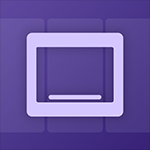
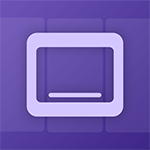
N 2.0

diff --git a/pixel sorter.html b/pixel sorter.html
@@ -54,7 +54,7 @@
                 <svg xmlns="http://www.w3.org/2000/svg" viewBox="0 0 850.89 850.9">
                     <path fill="var(--bar)" d="M757.63.5H92.77C41.58.5.08,41.99.08,93.18v665.02c0,51.19,41.5,92.69,92.69,92.69h664.86c51.19,0,92.68-41.5,92.68-92.69V93.18c0-51.19-41.49-92.68-92.68-92.68ZM383.3,727.2c0,22.08-17.9,39.97-39.98,39.97H123.69c-22.08,0-39.98-17.89-39.98-39.97v-65.37h89.03c17.62,0,31.9-14.29,31.9-31.9v-19.84c0-17.61-14.28-31.89-31.9-31.89h-89.03v-305h89.03c17.62,0,31.9-14.28,31.9-31.9v-19.83c0-17.62-14.28-31.9-31.9-31.9h-89.03v-65.38c0-22.08,17.9-39.98,39.98-39.98h219.63c22.08,0,39.98,17.9,39.98,39.97v603.02ZM766.68,189.56h-89.19c-17.62,0-31.9,14.29-31.9,31.9v19.83c0,17.62,14.28,31.9,31.9,31.9h89.19v305h-89.19c-17.62,0-31.9,14.28-31.9,31.9v19.83c0,17.62,14.28,31.9,31.9,31.9h89.19v65.38c0,22.08-17.9,39.97-39.98,39.97h-219.63c-22.08.01-39.98-17.88-39.98-39.96V124.19c0-22.08,17.9-39.98,39.98-39.98h219.63c22.08,0,39.98,17.9,39.98,39.98v65.37Z"/>
                   </svg>
-                <img src="icon/thumbnails/missing.png" alt="pixel sorter" id="headerimage" draggable="false">
+                <img src="icon/thumbnails/pixelsorter.png" alt="pixel sorter" id="headerimage" draggable="false">
             </div>
             <h2>Pixel Sorter</h2>
         </header>
@@ -152,6 +152,38 @@
         </main>
 
         <script>
+            /*
+                make faster by mergin the bitmask creation and image system
+
+                also, make it so that repeated lines dont exist [a boarder for hte bit mask where the width starts and ends]
+
+                compress images if they are over 1000 pixels in any dimention
+
+
+                (e.naturalHeight || e.offsetHeight || e.height)
+
+                img.onload = function () {
+
+    // set size proportional to image
+    canvas.height = canvas.width * (img.height / img.width);
+
+    // step 1 - resize to 50%
+    var oc = document.createElement('canvas'),
+        octx = oc.getContext('2d');
+
+    oc.width = img.width * 0.5;
+    oc.height = img.height * 0.5;
+    octx.drawImage(img, 0, 0, oc.width, oc.height);
+
+    // step 2
+    octx.drawImage(oc, 0, 0, oc.width * 0.5, oc.height * 0.5);
+
+    // step 3, resize to final size
+    ctx.drawImage(oc, 0, 0, oc.width * 0.5, oc.height * 0.5,
+    0, 0, canvas.width, canvas.height);
+}
+img.src = "//i.imgur.com/SHo6Fub.jpg";
+            */
             let processor;
             window.onload = function() {
                 processor = new PixelSorter(document.getElementById('out'),document.getElementById('in'))
@@ -219,26 +251,18 @@
                 createImageBuffer(file) {
                     this.outputCanvas.classList.remove('active')
                     let e = new Image()
+
                     e.onload = () => {
-                        //document.getElementById('headerimage').src = e.src
-                        //console.log(e.height, this.outputCanvas)
+    
                         let o, c;
-                        this.outputCanvas.height = (e.naturalHeight || e.offsetHeight || e.height)
-                        this.outputCanvas.width = (e.naturalWidth || e.offsetWidth || e.width)
-                        c = (this.imageCanvas.height) = e.naturalHeight || e.offsetHeight || e.height, 
-                        o = (this.imageCanvas.width) = e.naturalWidth || e.offsetWidth || e.width, 
+                        c = this.outputCanvas.height = this.imageCanvas.height = e.naturalHeight || e.offsetHeight || e.height, 
+                        o = this.imageCanvas.width = this.outputCanvas.width = e.naturalWidth || e.offsetWidth || e.width, 
                         this.imageCTX.drawImage(e, 0, 0)
                         this.imageCanvas.classList.add('active')
                         //console.log('working')
                         this.OGimageData = this.imageCTX.getImageData(0, 0, o, c)
                     }
-                    e.onerror = function() {
-                        
-                    }
-                    //console.log(this.readInput(file))
-                    this.readInput(file, e)
-
-                    
+                    this.readInput(file, e)                    
                 }
 
                 get OGimage() {
@@ -378,51 +402,60 @@
                     let deltaL = labOne[0] - labTwo[0],
                     deltaA = labOne[1] - labTwo[1],
                     deltaB = labOne[2] - labTwo[2],
+
                     c1 = Math.sqrt(labOne[1] * labOne[1] + labOne[2] * labOne[2]),
                     c2 = Math.sqrt(labTwo[1] * labTwo[1] + labTwo[2] * labTwo[2]),
+
                     deltaC = c1 - c2,
                     deltaH = deltaA * deltaA + deltaB * deltaB - deltaC * deltaC;
                     deltaH = deltaH < 0 ? 0 : Math.sqrt(deltaH);
+
                     let sc = 1.0 + 0.045 * c1,
                     sh = 1.0 + 0.015 * c1,
+
                     deltaLKlsl = deltaL / (1.0),
                     deltaCkcsc = deltaC / (sc),
                     deltaHkhsh = deltaH / (sh),
+
                     i = deltaLKlsl * deltaLKlsl + deltaCkcsc * deltaCkcsc + deltaHkhsh * deltaHkhsh;
+
                     return i < 0 ? 0 : Math.sqrt(i);
                 }
 
 
                 createBitMask(map) {
-                    console.log('starting bitmask creation')
                     this.colourMask = map
                     let tempMask = []
 
                     for(let i = 0; i < this.colourMask.length; i++) {
                         let bit = 0
+
                         if(this.colourSpace != 'LAB') {
+
                             if(this.colourMask[i] <= this.lowBound || this.colourMask[i] >= this.upBound) {
                                 bit = ((this.outputChannel[3]) ? 1 : null)
                             }else {
                                 bit = ((this.outputChannel[3]) ? null : 1)
                             }
+
                         }else {
-                            //console.log(this.colourMask[i] <= this.matchColourThresh, this.colourMask[i], this.matchColourThresh)
+
                             if(this.colourMask[i] >= this.matchColourThresh) {
                                 bit = ((this.outputChannel[3]) ? 1 : null)
                             }else {
                                 bit = ((this.outputChannel[3]) ? null : 1)
                             }
+
                         }
-            
+
                         if(tempMask.length < 1 || tempMask[tempMask.length - 1][tempMask[tempMask.length - 1].length - 1] != bit) { 
                             tempMask.push([bit]) 
                         }else { 
                             tempMask[tempMask.length - 1].push(bit) 
                         }
-                        //console.log(tempMask)
+
                     }
-                    //console.log(tempMask)
+
                     return Promise.resolve(tempMask)
                 }
 
@@ -459,40 +492,6 @@
                         maskLen += this.bitMask[main].length
                     }
 
-                    
-
-                   /*
-                    let counter = 0
-                    for(let y = 0; y < this.bitMask.length; y++) {
-                        counter += (this.bitMask[y].length - 1)
-                        for(let x = 0; x < this.bitMask[y].length; x++) {
-                            if(this.bitMask[y][x]) {
-                                this.colourMask[y][x] = (this.image[counter + x])
-                            }// for each row, push an array for every white until a black, then make a new array and push that so it looks like [[1,1,1,1,1,1], [0,0,0,0,0,0,0,0]] //then you sort every value that is a 1 indevidually before placing back using the map
-                        }
-                    }
-
-                    //[[0,0,0,x],[0,0,0,x]]
-
-                    let tempImage = this.colourMask.map((element) => {
-                        //console.log(element)
-                        if(element[0] == null) return element
-                        return element.sort( (a, b) => (this.outputChannel[4]) ? a[3] - b[3] : b[3] - a[3])
-                    })
-                    //console.log(tempImage)
-                    console.log('applying bitmask')
-
-                    counter = 0
-                    for(let y = 0; y < this.bitMask.length; y++) {
-                        counter += (this.bitMask[y].length - 1)
-                        for(let x = 0; x < this.bitMask[y].length; x++) {
-                            if(this.bitMask[y][x]) {
-                                this.image[counter + x] = tempImage[y][x]
-                            }// for each row, push an array for every white until a black, then make a new array and push that so it looks like [[1,1,1,1,1,1], [0,0,0,0,0,0,0,0]] //then you sort every value that is a 1 indevidually before placing back using the map
-                        }
-                    }
-
-*/
 
 
 
@@ -501,8 +500,6 @@
                 }
 
                 drawOutput(output) {
-
-                    console.log('drawing image')
 
                     switch(this.outputChannel[5]) {
                         case false:
@@ -518,22 +515,19 @@
                             }
                             break;
                         case true:
-            
                             this.outputImage = output
-                            //console.log(output)
-
                             break;
                     }
                     for(let y = 0; y < this.outputCanvas.height; y++) {
                         for(let x = 0; x < this.outputCanvas.width; x++) {  
                     
-                            this.outputCTX.fillStyle = `rgb(${(this.outputChannel[0]) ? 0 : this.outputImage[this.outputCanvas.width * y + x][0]} ${(this.outputChannel[1]) ? 0 : this.outputImage[this.outputCanvas.width * y + x][1]} ${(this.outputChannel[2]) ? 0 : this.outputImage[this.outputCanvas.width * y + x][2]})`;
-                            //this.outputCTX.fillStyle = `rgb(${this.outputImage[this.outputCanvas.width * y + x][0]} ${this.outputImage[this.outputCanvas.width * y + x][1]} ${this.outputImage[this.outputCanvas.width * y + x][2]})`;
-                        
+                            this.outputCTX.fillStyle = `rgb(${
+                                (this.outputChannel[0]) ? 0 : this.outputImage[this.outputCanvas.width * y + x][0]} ${
+                                    (this.outputChannel[1]) ? 0 : this.outputImage[this.outputCanvas.width * y + x][1]} ${
+                                        (this.outputChannel[2]) ? 0 : this.outputImage[this.outputCanvas.width * y + x][2]})`;
                             this.outputCTX.fillRect(x, y, 1, 1);
                         }
                     }
-                    console.log('finished')
                     setTimeout(() => {
                         this.outputCanvas.classList.add('active')
                     }, 100);

diff --git a/the cellar.html b/the cellar.html
@@ -104,7 +104,7 @@
                         <svg xmlns="http://www.w3.org/2000/svg" viewBox="0 0 850.89 850.9">
                             <path d="M757.63.5H92.77C41.58.5.08,41.99.08,93.18v665.02c0,51.19,41.5,92.69,92.69,92.69h664.86c51.19,0,92.68-41.5,92.68-92.69V93.18c0-51.19-41.49-92.68-92.68-92.68ZM383.3,727.2c0,22.08-17.9,39.97-39.98,39.97H123.69c-22.08,0-39.98-17.89-39.98-39.97v-65.37h89.03c17.62,0,31.9-14.29,31.9-31.9v-19.84c0-17.61-14.28-31.89-31.9-31.89h-89.03v-305h89.03c17.62,0,31.9-14.28,31.9-31.9v-19.83c0-17.62-14.28-31.9-31.9-31.9h-89.03v-65.38c0-22.08,17.9-39.98,39.98-39.98h219.63c22.08,0,39.98,17.9,39.98,39.97v603.02ZM766.68,189.56h-89.19c-17.62,0-31.9,14.29-31.9,31.9v19.83c0,17.62,14.28,31.9,31.9,31.9h89.19v305h-89.19c-17.62,0-31.9,14.28-31.9,31.9v19.83c0,17.62,14.28,31.9,31.9,31.9h89.19v65.38c0,22.08-17.9,39.97-39.98,39.97h-219.63c-22.08.01-39.98-17.88-39.98-39.96V124.19c0-22.08,17.9-39.98,39.98-39.98h219.63c22.08,0,39.98,17.9,39.98,39.98v65.37Z"/>
                           </svg>
-                        <img src="icon/thumbnails_small/missing.png" alt="page icon" draggable="false">
+                        <img src="icon/thumbnails_small/pixelsorter.png" alt="page icon" draggable="false">
                         <p>Pixel Sorter</p>
                         <span>Image Processing</span>
                     </div>
